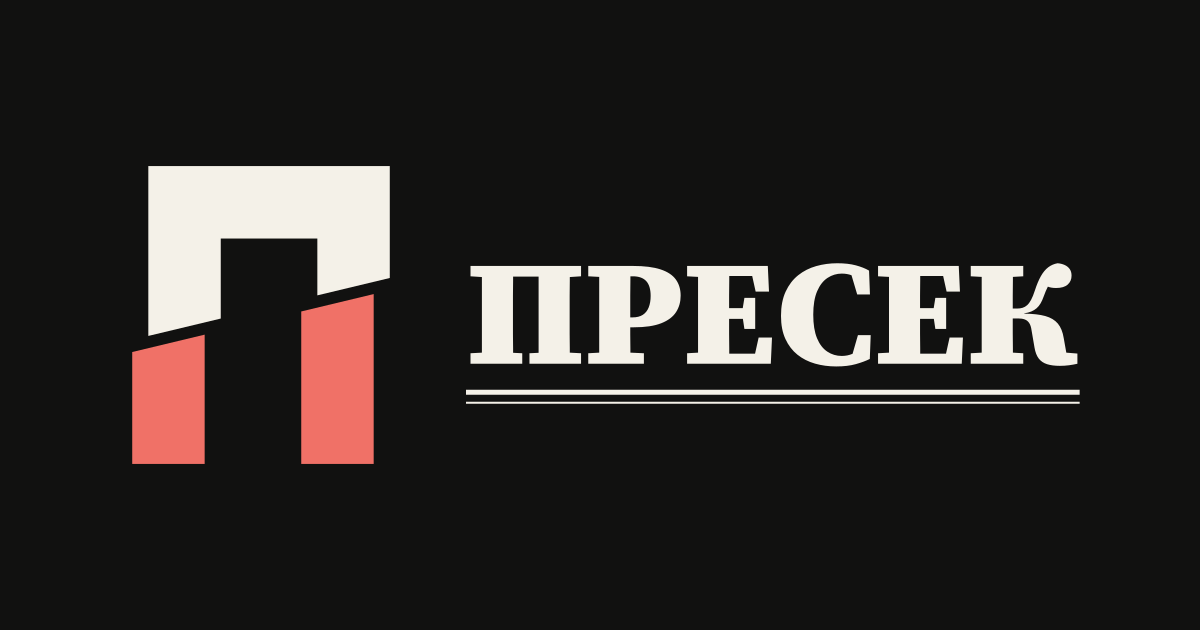
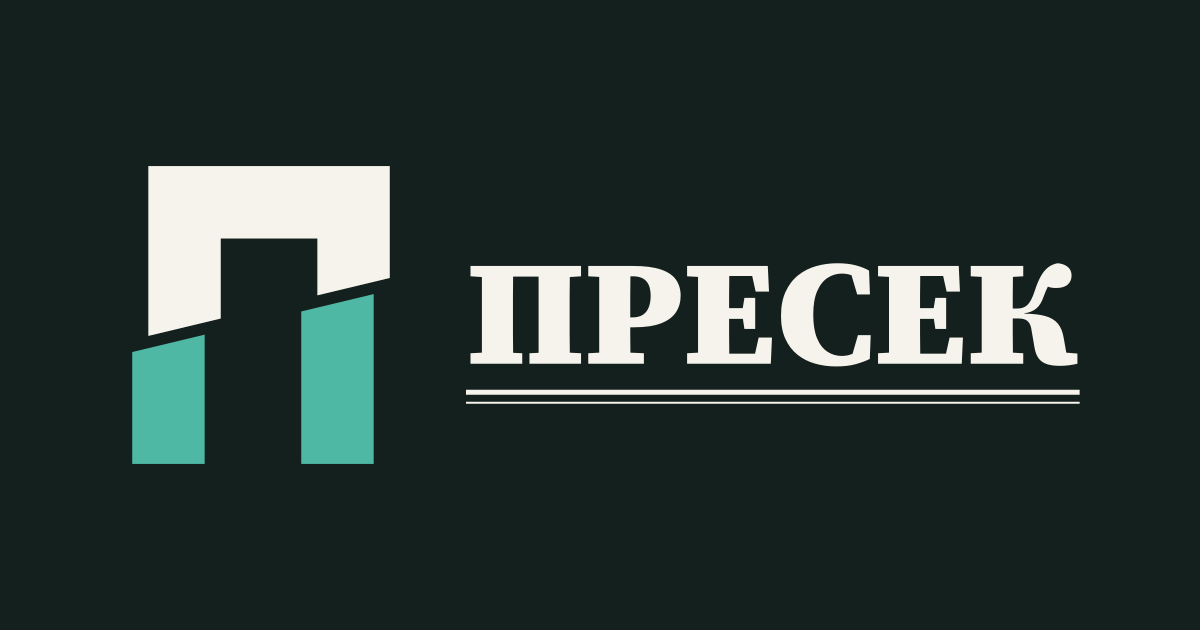
New palette: green-teal on warm paper
Accent #0f6b5e (#4fb8a5 on dark), warm paper neutrals and teal-black ink,
all text/accent pairs at AA or better in both themes. Red is now reserved
for alerts: breaking badge, errors, degraded status, urgent heatmap.
Adds quiet section tints on home kickers (politics, economy, sport, world,
culture) and a gold edge on the quote block. Icon set, lockup, share image,
theme-color meta and manifest colours regenerated; caches bumped.

Changed region(s): [[0.2467, 0.4524, 0.3392, 0.754], [0.0925, 0.5127, 0.185, 0.754]]

diff --git a/web/src/styles/theme-broadsheet.css b/web/src/styles/theme-broadsheet.css
@@ -20,24 +20,30 @@
 
 html:root {
     /* Broadsheet palette */
-    --bs-bg: #f4f4f1;
-    --bs-surface: #ffffff;
-    --bs-border: #dcddd8;
-    --bs-input-border: #b9bbb4;
-    --bs-text: #16181d;
-    --bs-body: #2e323a;
-    --bs-muted: #4a4f59;
-    --bs-accent: #b3261e;
+    --bs-bg: #f5f3ec;
+    --bs-surface: #fffefa;
+    --bs-border: #dedacc;
+    --bs-input-border: #bdb9a9;
+    --bs-text: #14201e;
+    --bs-body: #2b3836;
+    --bs-muted: #55625f;
+    --bs-accent: #0f6b5e;
     --bs-on-accent: #ffffff;
-    --bs-bar3: #8a8e96;
-    --bs-bar4: #c3c5c0;
-    --bs-photo: #dadcd7;
-    --bs-topbar: #16181d;
-    --bs-topbar-text: #c9cbd1;
-    --bs-quote-bg: #16181d;
-    --bs-quote-text: #f4f4f1;
-    --bs-quote-muted: #c9cbd1;
-    --bs-quote-border: #16181d;
+    --bs-bar3: #8a9490;
+    --bs-bar4: #c6c9bf;
+    --bs-photo: #e0ddd0;
+    --bs-topbar: #14201e;
+    --bs-topbar-text: #c4d0cc;
+    --bs-quote-bg: #14201e;
+    --bs-quote-text: #f5f3ec;
+    --bs-quote-muted: #c4d0cc;
+    --bs-quote-border: #14201e;
+    --bs-quote-accent: #e3a857;
+    --bs-tone-pol: #7a3b5e;
+    --bs-tone-eco: #5a6b1e;
+    --bs-tone-spo: #b4540f;
+    --bs-tone-wor: #2f5f8a;
+    --bs-tone-cul: #8a5a1c;
     --bs-serif: 'Source Serif 4', Georgia, serif;
     --bs-sans: 'IBM Plex Sans', system-ui, sans-serif;
 
@@ -50,28 +56,28 @@ html:root {
     --popover-foreground: var(--bs-text);
     --primary: var(--bs-text);
     --primary-foreground: var(--bs-bg);
-    --secondary: #ecece8;
+    --secondary: #ece9df;
     --secondary-foreground: var(--bs-text);
-    --muted: #efefeb;
+    --muted: #eeebe2;
     --muted-foreground: var(--bs-muted);
-    --accent: #ecece8;
+    --accent: #ece9df;
     --accent-foreground: var(--bs-text);
     --destructive: #b3261e;
     --border: var(--bs-border);
     --input: var(--bs-input-border);
     --ring: var(--bs-accent);
-    --surface-soft: #fafaf8;
-    --surface-strong: #ecece8;
+    --surface-soft: #faf8f1;
+    --surface-strong: #ece9df;
 
     --presek-mark: var(--bs-accent);
     --product-accent: var(--bs-accent);
     --nyt-accent: var(--bs-accent);
     --nyt-red: var(--bs-accent);
     --nyt-black: var(--bs-text);
-    --nyt-gray-100: #efefeb;
-    --nyt-gray-200: #e4e5e0;
+    --nyt-gray-100: #eeebe2;
+    --nyt-gray-200: #e3e0d4;
     --nyt-gray-300: var(--bs-border);
-    --nyt-gray-500: #6b707a;
+    --nyt-gray-500: #6b7773;
     --nyt-gray-600: var(--bs-muted);
     --ui-chrome: var(--bs-muted);
     --link: var(--bs-text);
@@ -96,70 +102,82 @@ html:root {
 }
 
 html.dark {
-    --bs-bg: #121317;
-    --bs-surface: #1b1d22;
-    --bs-border: #2c2f36;
-    --bs-input-border: #3a3e46;
-    --bs-text: #ecedef;
-    --bs-body: #c9ccd2;
-    --bs-muted: #a3a7b0;
-    --bs-accent: #f07167;
+    --bs-bg: #101615;
+    --bs-surface: #182120;
+    --bs-border: #263230;
+    --bs-input-border: #34423f;
+    --bs-text: #e8efed;
+    --bs-body: #c2cfcb;
+    --bs-muted: #9fb0ab;
+    --bs-accent: #4fb8a5;
     --presek-mark: var(--bs-accent);
     --product-accent: var(--bs-accent);
-    --bs-on-accent: #121317;
-    --bs-bar3: #6b707a;
-    --bs-bar4: #464a52;
-    --bs-photo: #2a2d34;
-    --bs-topbar: #0b0c0f;
-    --bs-topbar-text: #a3a7b0;
-    --bs-quote-bg: #1b1d22;
-    --bs-quote-text: #ecedef;
-    --bs-quote-muted: #a3a7b0;
-    --bs-quote-border: #2c2f36;
+    --bs-on-accent: #0b1211;
+    --bs-bar3: #66756f;
+    --bs-bar4: #43504c;
+    --bs-photo: #243230;
+    --bs-topbar: #0a0f0e;
+    --bs-topbar-text: #9fb0ab;
+    --bs-quote-bg: #182120;
+    --bs-quote-text: #e8efed;
+    --bs-quote-muted: #9fb0ab;
+    --bs-quote-border: #263230;
+    --bs-quote-accent: #e3a857;
+    --bs-tone-pol: #d79ac0;
+    --bs-tone-eco: #b5c96a;
+    --bs-tone-spo: #f0a060;
+    --bs-tone-wor: #86b4e0;
+    --bs-tone-cul: #e0b878;
 
-    --secondary: #22252b;
-    --muted: #1b1d22;
-    --accent: #22252b;
+    --secondary: #1f2a28;
+    --muted: #182120;
+    --accent: #1f2a28;
     --destructive: #f07167;
-    --surface-soft: #17191d;
-    --surface-strong: #22252b;
-    --nyt-gray-100: #17191d;
-    --nyt-gray-200: #22252b;
-    --nyt-gray-500: #8a8e96;
+    --surface-soft: #141c1b;
+    --surface-strong: #1f2a28;
+    --nyt-gray-100: #141c1b;
+    --nyt-gray-200: #1f2a28;
+    --nyt-gray-500: #86958f;
 }
 
 @media (prefers-color-scheme: dark) {
     html:root:not(.light) {
-        --bs-bg: #121317;
-        --bs-surface: #1b1d22;
-        --bs-border: #2c2f36;
-        --bs-input-border: #3a3e46;
-        --bs-text: #ecedef;
-        --bs-body: #c9ccd2;
-        --bs-muted: #a3a7b0;
-        --bs-accent: #f07167;
+        --bs-bg: #101615;
+        --bs-surface: #182120;
+        --bs-border: #263230;
+        --bs-input-border: #34423f;
+        --bs-text: #e8efed;
+        --bs-body: #c2cfcb;
+        --bs-muted: #9fb0ab;
+        --bs-accent: #4fb8a5;
         --presek-mark: var(--bs-accent);
         --product-accent: var(--bs-accent);
-        --bs-on-accent: #121317;
-        --bs-bar3: #6b707a;
-        --bs-bar4: #464a52;
-        --bs-photo: #2a2d34;
-        --bs-topbar: #0b0c0f;
-        --bs-topbar-text: #a3a7b0;
-        --bs-quote-bg: #1b1d22;
-        --bs-quote-text: #ecedef;
-        --bs-quote-muted: #a3a7b0;
-        --bs-quote-border: #2c2f36;
+        --bs-on-accent: #0b1211;
+        --bs-bar3: #66756f;
+        --bs-bar4: #43504c;
+        --bs-photo: #243230;
+        --bs-topbar: #0a0f0e;
+        --bs-topbar-text: #9fb0ab;
+        --bs-quote-bg: #182120;
+        --bs-quote-text: #e8efed;
+        --bs-quote-muted: #9fb0ab;
+        --bs-quote-border: #263230;
+        --bs-quote-accent: #e3a857;
+        --bs-tone-pol: #d79ac0;
+        --bs-tone-eco: #b5c96a;
+        --bs-tone-spo: #f0a060;
+        --bs-tone-wor: #86b4e0;
+        --bs-tone-cul: #e0b878;
 
-        --secondary: #22252b;
-        --muted: #1b1d22;
-        --accent: #22252b;
+        --secondary: #1f2a28;
+        --muted: #182120;
+        --accent: #1f2a28;
         --destructive: #f07167;
-        --surface-soft: #17191d;
-        --surface-strong: #22252b;
-        --nyt-gray-100: #17191d;
-        --nyt-gray-200: #22252b;
-        --nyt-gray-500: #8a8e96;
+        --surface-soft: #141c1b;
+        --surface-strong: #1f2a28;
+        --nyt-gray-100: #141c1b;
+        --nyt-gray-200: #1f2a28;
+        --nyt-gray-500: #86958f;
     }
 }
 

diff --git a/web/src/components/ArchiveHeatmapIsland.tsx b/web/src/components/ArchiveHeatmapIsland.tsx
@@ -92,9 +92,9 @@ export default function ArchiveHeatmapIsland({ selectedDate, lang = 'mk', q = ''
     if (count === 0) return 'bg-muted/20 border border-border/10';
     const ratio = count / max;
     if (isBreaking) {
-      if (ratio > 0.6) return 'bg-nyt-red text-white shadow-[0_0_8px_rgba(185,28,28,0.3)]';
-      if (ratio > 0.2) return 'bg-nyt-red/70';
-      return 'bg-nyt-red/40';
+      if (ratio > 0.6) return 'bg-destructive text-white shadow-[0_0_8px_rgba(185,28,28,0.3)]';
+      if (ratio > 0.2) return 'bg-destructive/70';
+      return 'bg-destructive/40';
     } else {
       if (ratio > 0.6) return 'bg-presek-mark text-white shadow-[0_0_8px_color-mix(in_srgb,var(--presek-mark)_45%,transparent)]';
       if (ratio > 0.2) return 'bg-presek-mark/70';
@@ -120,7 +120,7 @@ export default function ArchiveHeatmapIsland({ selectedDate, lang = 'mk', q = ''
         </div>
         <div className="flex gap-[var(--grid-gap)] text-xs font-bold font-sans">
           <div className="flex items-center gap-[var(--grid-gap)]"><span className="w-3 h-3 bg-presek-mark/60 rounded-none"></span> {t('archive.heatmap_volume')}</div>
-          <div className="flex items-center gap-[var(--grid-gap)]"><span className="w-3 h-3 bg-nyt-red/60 rounded-none"></span> {t('archive.heatmap_urgent')}</div>
+          <div className="flex items-center gap-[var(--grid-gap)]"><span className="w-3 h-3 bg-destructive/60 rounded-none"></span> {t('archive.heatmap_urgent')}</div>
         </div>
       </div>
 

diff --git a/web/src/lib/broadsheetHome.ts b/web/src/lib/broadsheetHome.ts
@@ -118,6 +118,20 @@ export function sectionLabelMk(raw: string | null | undefined): string | null {
     return SECTION_LABELS_MK[key] || null;
 }
 
+const SECTION_TONES: Record<string, string> = {
+    politika: 'pol',
+    ekonomija: 'eco',
+    sport: 'spo',
+    svet: 'wor', evropa: 'wor', amerika: 'wor', azija: 'wor', bliski_istok: 'wor', balkan: 'wor', region: 'wor',
+    kultura: 'cul', zabava: 'cul', zivot: 'cul',
+};
+
+/** Colour family for a section kicker (pol, eco, spo, wor, cul); null for the neutral rest. */
+export function sectionToneMk(raw: string | null | undefined): string | null {
+    const key = String(raw || '').trim().toLowerCase().replace(/\s+/g, '_');
+    return SECTION_TONES[key] || null;
+}
+
 // The lead photo is the page's LCP element. The <img> in BroadsheetHome and the <link rel=preload>
 // in LayoutHead must offer the same candidates and `sizes`, otherwise the browser preloads one
 // width and the <img> asks for another (two downloads of the same photo).

diff --git a/web/src/styles/home-broadsheet.css b/web/src/styles/home-broadsheet.css
@@ -176,6 +176,11 @@
     text-transform: uppercase;
     color: var(--bs-accent);
 }
+.bs-kicker[data-tone="pol"] { color: var(--bs-tone-pol); }
+.bs-kicker[data-tone="eco"] { color: var(--bs-tone-eco); }
+.bs-kicker[data-tone="spo"] { color: var(--bs-tone-spo); }
+.bs-kicker[data-tone="wor"] { color: var(--bs-tone-wor); }
+.bs-kicker[data-tone="cul"] { color: var(--bs-tone-cul); }
 .bs-kicker-muted { color: var(--bs-muted); }
 .bs-card-title { margin: 0; font-family: var(--bs-serif); font-weight: 600; font-size: 20px; line-height: 1.3; flex: 1; color: var(--bs-text); }
 
@@ -218,6 +223,7 @@
     background: var(--bs-quote-bg);
     color: var(--bs-quote-text);
     border: 1px solid var(--bs-quote-border);
+    border-left: 4px solid var(--bs-quote-accent);
     border-radius: 8px;
     display: flex;
     flex-direction: column;

diff --git a/web/public/sw.js b/web/public/sw.js
@@ -3,7 +3,7 @@
 
 import { shouldCacheApiPath, shouldStoreApiResponse, offlinePageForPath } from './sw-cache-policy.js';
 
-const CACHE_NAME = 'presek-v34';
+const CACHE_NAME = 'presek-v35';
 const API_CACHE_NAME = 'presek-api-v32';
 const API_CACHE_MAX_AGE_MS = 5 * 60 * 1000;
 
@@ -15,7 +15,7 @@ function offlinePageFor(url) {
 
 const STATIC_ASSETS = [
   '/logo.svg?v=4',
-  '/img/presek_emblem.svg?v=7',
+  '/img/presek_emblem.svg?v=8',
   '/img/icons/presek-icon-192.png',
   '/img/icons/presek-icon-512.png',
   '/img/icons/presek-maskable-192.png',

diff --git a/web/src/pages/manifest.json.ts b/web/src/pages/manifest.json.ts
@@ -33,8 +33,8 @@ export const GET: APIRoute = async ({ request }) => {
     "display": "standalone",
     "display_override": ["window-controls-overlay", "standalone", "minimal-ui"],
     "launch_handler": { "client_mode": "navigate-existing" },
-    "background_color": "#fdfdfa",
-    "theme_color": "#0a192f",
+    "background_color": "#f5f3ec",
+    "theme_color": "#14201e",
     "prefer_related_applications": false,
     "icons": [
       {

diff --git a/web/src/components/MorningEmailSignup.tsx b/web/src/components/MorningEmailSignup.tsx
@@ -141,7 +141,7 @@ export default function MorningEmailSignup({
           </div>
 
           {status === 'error' && (
-            <p className="text-[10px] font-bold text-nyt-red uppercase tracking-tight">{message}</p>
+            <p className="text-[10px] font-bold text-destructive uppercase tracking-tight">{message}</p>
           )}
 
           <button

diff --git a/web/src/lib/placeholderTheme.ts b/web/src/lib/placeholderTheme.ts
@@ -1,6 +1,6 @@
 /** Presek editorial placeholder tints — aligned with presek-identity.css */
 
-export const PRESEK_MARK = '#c45c26';
+export const PRESEK_MARK = '#0f6b5e';
 
 const LEGACY_COLD_TINTS = new Set([
   '#1e40af',

diff --git a/web/src/styles/lead-hero.css b/web/src/styles/lead-hero.css
@@ -136,7 +136,7 @@
 
     .significance-badge.is-breaking {
         color: white;
-        background: var(--nyt-red);
+        background: var(--destructive);
         opacity: 1;
     }
 
